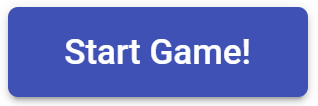
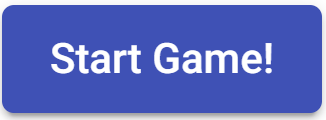
Added buttons + background is white

Changed region(s): [[0.0, 0.0283, 0.9906, 0.9906], [0.1415, 0.3396, 0.8491, 0.6226]]

diff --git a/phaser-client/src/scenes/voteScene.js b/phaser-client/src/scenes/voteScene.js
@@ -18,7 +18,7 @@ export default class voteScene extends Phaser.Scene {
     }
 
     preload() {
-        this.load.image('button','src/assets/button-start-game.png');
+        this.load.image('button-vote','src/assets/button-vote.png');
     }
 
     create() {
@@ -63,7 +63,7 @@ export default class voteScene extends Phaser.Scene {
         this.errorNotYourCard = this.add.text(750, 200, 'You can\'t vote for your own card!', styleWarning).setVisible(false);
 
         this.input.on('gameobjectdown', function (pointer, gameObject) {
-            if(gameObject.texture.key!='button'){
+            if(gameObject.texture.key!='button-vote'){
                 if(selectedCard != null){
                     selectedCard.setTint(0x7885cb);
                     selectedCard.setScale(1.3, 1.3);
@@ -75,30 +75,30 @@ export default class voteScene extends Phaser.Scene {
         })
 
         this.input.on('gameobjectover', function (pointer, gameObject) {
-            if(gameObject.texture.key!='button'){
+            if(gameObject.texture.key!='button-vote'){
                 gameObject.setScale(1.8, 1.8);
             }
         })
 
         this.input.on('gameobjectout', function (pointer, gameObject) {
-            if(gameObject.texture.key!='button'){
+            if(gameObject.texture.key!='button-vote'){
                 gameObject.setScale(1.3, 1.3);
             }
         })
 
-        const buttonSubmitCard = this.add.image(850,605, "button").setScale(0.5,0.5);
-        buttonSubmitCard.setInteractive();
+        const buttonVote = this.add.image(850,605, "button-vote").setScale(0.5,0.5);
+        buttonVote.setInteractive();
 
         if(self.isStoryteller){
-            buttonSubmitCard.setVisible(false);
-            buttonSubmitCard.disableInteractive();
+            buttonVote.setVisible(false);
+            buttonVote.disableInteractive();
             textVote.setVisible(false);
             textWait.setVisible(true);
             //console.log("Emited voted waiting by Storyteller");
             self.socket.emit("votedWaiting",self.id);
         }
 
-        buttonSubmitCard.on('pointerdown', () => {
+        buttonVote.on('pointerdown', () => {
             if (selectedCard == null) {
                 this.errorNotYourCard.setVisible(false);
                 this.errorMissingCard.setVisible(true);
@@ -109,8 +109,8 @@ export default class voteScene extends Phaser.Scene {
             }
             else {
                 console.log('My card: ' + selectedCard.texture.key);
-                buttonSubmitCard.setVisible(false);
-                buttonSubmitCard.disableInteractive();
+                buttonVote.setVisible(false);
+                buttonVote.disableInteractive();
                 this.errorMissingCard.setVisible(false);
                 this.errorNotYourCard.setVisible(false);
                 textVote.setVisible(false);

diff --git a/phaser-client/src/scenes/chooseCard.js b/phaser-client/src/scenes/chooseCard.js
@@ -18,7 +18,7 @@ export default class chooseCard extends Phaser.Scene {
     }
 
     preload() {
-        this.load.image('button','src/assets/button-start-game.png');
+        this.load.image('button-submit-card','src/assets/button-submit-card.png');
 
         /**   Cards   **/
         this.load.image('card_00', 'src/assets/card-0.png');
@@ -91,7 +91,7 @@ export default class chooseCard extends Phaser.Scene {
         this.errorMissingCard = this.add.text(750, 200, 'Please choose a Card!', styleWarning).setVisible(false);
 
         this.input.on('gameobjectdown', function (pointer, gameObject) {
-            if(gameObject.texture.key!='button'){
+            if(gameObject.texture.key!='button-submit-card'){
                 if(selectedCard != null){
                     selectedCard.setTint(0x7885cb);
                     selectedCard.setScale(1.3, 1.3);
@@ -103,26 +103,26 @@ export default class chooseCard extends Phaser.Scene {
         })
 
         this.input.on('gameobjectover', function (pointer, gameObject) {
-            if(gameObject.texture.key!='button'){
+            if(gameObject.texture.key!='button-submit-card'){
                 gameObject.setScale(1.8, 1.8);
             }
         })
 
         this.input.on('gameobjectout', function (pointer, gameObject) {
-            if(gameObject.texture.key!='button'){
+            if(gameObject.texture.key!='button-submit-card'){
                 gameObject.setScale(1.3, 1.3);
             }
         })
 
-        const buttonSubmitStory = this.add.image(850,605, "button").setScale(0.5,0.5);
-        buttonSubmitStory.setInteractive();
-        buttonSubmitStory.on('pointerdown', () => {
+        const buttonSubmitCard = this.add.image(850,605, "button-submit-card").setScale(0.5,0.5);
+        buttonSubmitCard.setInteractive();
+        buttonSubmitCard.on('pointerdown', () => {
             if (selectedCard == null) {
                 this.errorMissingCard.setVisible(true);
             }
 
             else {
-                buttonSubmitStory.disableInteractive();
+                buttonSubmitCard.disableInteractive();
                 //console.log('My card: ' + selectedCard.texture.key);
                 self.socket.emit("gatherCards", selectedCard.texture.key, this.id);
 

diff --git a/phaser-client/src/scenes/writeStory.js b/phaser-client/src/scenes/writeStory.js
@@ -22,7 +22,7 @@ export default class WriteStory extends Phaser.Scene {
         /**  Story form   **/
         this.load.html("storyform", "src/assets/storyform.html");
 
-        this.load.image('button','src/assets/button-start-game.png');
+        this.load.image('button-submit-story','src/assets/button-submit-story.png');
 
         /**   Cards   **/
         this.load.image('card_00', 'src/assets/card-0.png');
@@ -111,7 +111,7 @@ export default class WriteStory extends Phaser.Scene {
         this.text = this.add.text(750, 300, "Choose a card and write your story!", style);
 
         this.input.on('gameobjectdown', function (pointer, gameObject) {
-            if(gameObject.texture.key!='button'){
+            if(gameObject.texture.key!='button-submit-story'){
                 if(selectedCard != null){
                     selectedCard.setTint(0x7885cb);
                     selectedCard.setScale(1.3, 1.3);
@@ -123,13 +123,13 @@ export default class WriteStory extends Phaser.Scene {
         })
 
         this.input.on('gameobjectover', function (pointer, gameObject) {
-            if(gameObject.texture.key!='button'){
+            if(gameObject.texture.key!='button-submit-story'){
                 gameObject.setScale(1.8, 1.8);
             }
         })
 
         this.input.on('gameobjectout', function (pointer, gameObject) {
-            if(gameObject.texture.key!='button'){
+            if(gameObject.texture.key!='button-submit-story'){
                 gameObject.setScale(1.3, 1.3);
             }
         })
@@ -139,7 +139,7 @@ export default class WriteStory extends Phaser.Scene {
         this.errorMissingCardAndStory = this.add.text(750, 200, 'Please choose a Card and write a Story!', styleWarning).setVisible(false);
         this.storyInput = this.add.dom(850, 500).createFromCache("storyform").setOrigin(0.5);
 
-        const buttonSubmitStory = this.add.image(850,605, "button").setScale(0.5,0.5);
+        const buttonSubmitStory = this.add.image(850,605, "button-submit-story").setScale(0.5,0.5);
         buttonSubmitStory.setInteractive();
         buttonSubmitStory.on('pointerdown', () => {
             let storybox = this.storyInput.getChildByName("story");

diff --git a/phaser-client/src/assets/storyform.html b/phaser-client/src/assets/storyform.html
@@ -12,7 +12,7 @@
       outline: none;
       font-family: Roboto, Arial, sans-serif;
       font-size: 14px;
-      color: #666;
+      color: #413b45;
       line-height: 22px;
       }
       h1 {
@@ -35,19 +35,19 @@
       padding: 20px;
       border-radius: 6px;
       background: #fff;
-      box-shadow: 0 0 8px  #ff9138; 
+      box-shadow: 0 0 8px  #c6c4c7; 
       }
       input {
       width: calc(100% - 10px);
       padding: 5px;
       }
       .item:hover p, .item:hover i, .question:hover p, .question label:hover, input:hover::placeholder {
-      color: #ff9138;
+      color: #c6c4c7;
       }
       .item input:hover, .item select:hover, .item textarea:hover {
       border: 1px solid transparent;
-      box-shadow: 0 0 3px 0 #ff9138;
-      color: #ff9138;
+      box-shadow: 0 0 3px 0 #c6c4c7;
+      color: #c6c4c7;
       }
       .item {
       position: relative;

diff --git a/phaser-client/src/scenes/scoresScene.js b/phaser-client/src/scenes/scoresScene.js
@@ -19,7 +19,7 @@ export default class scoresScene extends Phaser.Scene {
     }
 
     preload() {
-        this.load.image('button','src/assets/button-start-game.png');
+        this.load.image('button-continue','src/assets/button-continue.png');
     }
 
     create() {
@@ -84,7 +84,7 @@ export default class scoresScene extends Phaser.Scene {
         this.add.text(50, 595, '' + this.story, styleBold).setFontSize(40);
 
         if (this.isStoryteller === true){
-            const buttonContinue = this.add.image(850,605, "button").setScale(0.5,0.5);
+            const buttonContinue = this.add.image(850,605, "button-continue").setScale(0.5,0.5);
             buttonContinue.setInteractive();
 
             buttonContinue.once('pointerdown', () => {

diff --git a/phaser-client/src/index.js b/phaser-client/src/index.js
@@ -18,7 +18,7 @@ var scoresScene = new ScoresScene();
 var endGame = new EndGame();
 
 const config = {
-    backgroundColor: '#f3cca3',
+    backgroundColor: '#ffffff',
     scale: {
         parent: 'phaser-example',
         mode: Phaser.Scale.FIT,
